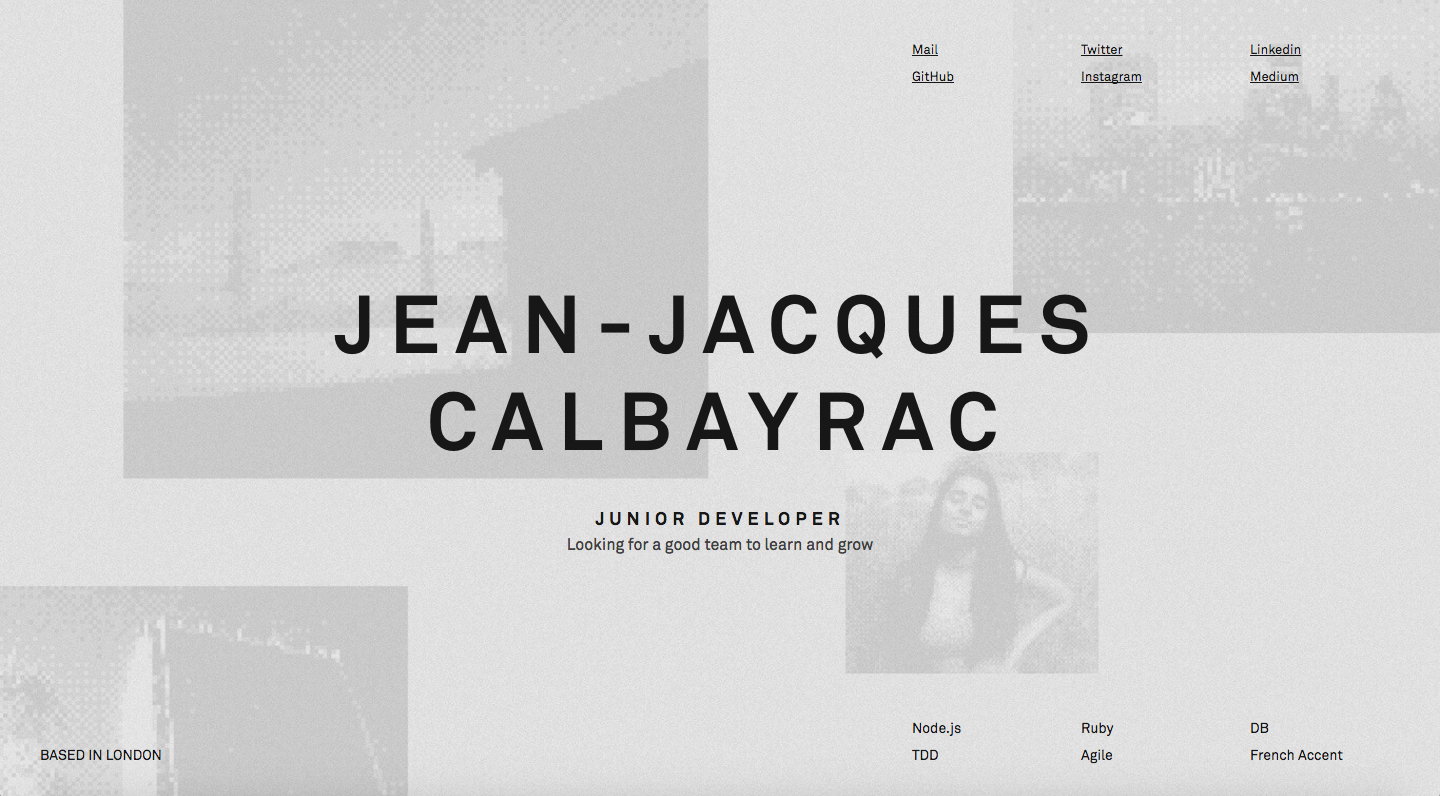
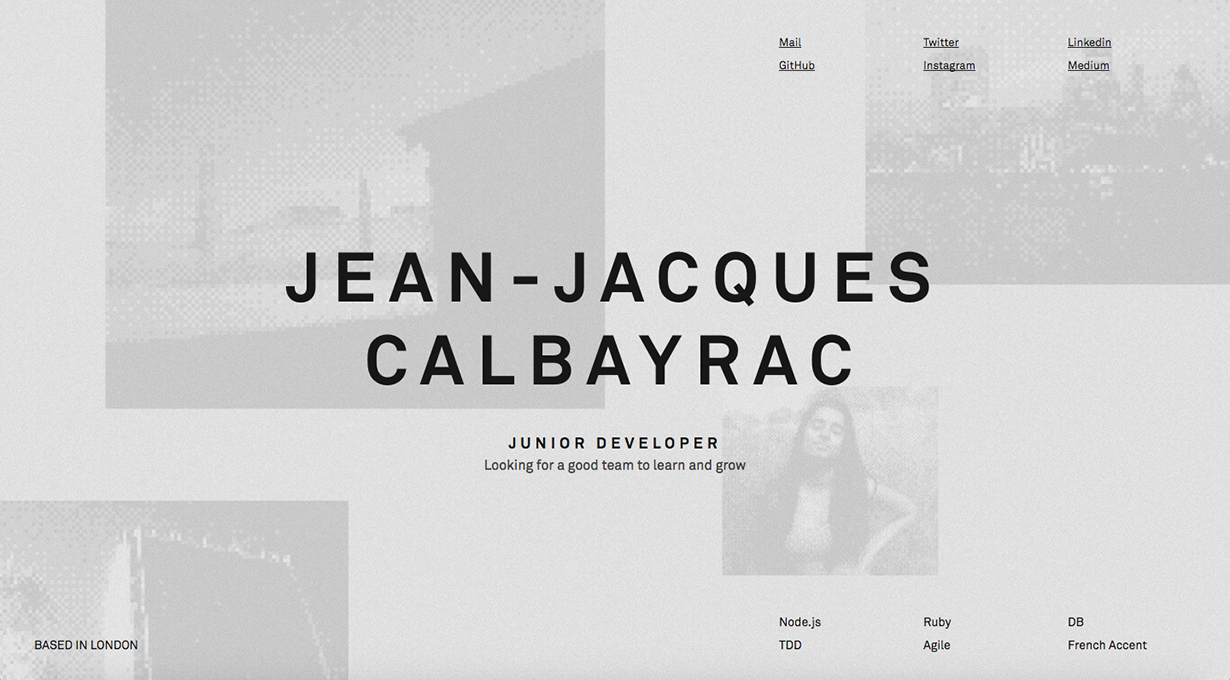
Add URL and change size picture

diff --git a/index.html b/index.html
@@ -15,9 +15,9 @@
         <meta property="og:image" content="http://calbayrac.one/image/screenshot.jpg">
         <meta property="og:image:type" content="image/jpeg">
         <meta property="og:image:width" content="1230">
-        <meta property="og:image:height" content="600">
+        <meta property="og:image:height" content="680">
         <meta property="og:site_name" content="Jean-Jacques Calbayrac">
-        <meta property="og:url" content="">
+        <meta property="og:url" content="http://calbayrac.one">
 
         <meta itemprop="name" content="Jean-Jacques Calbayrac">
         <meta itemprop="description" content="Junior Deveveloper based in London.">
